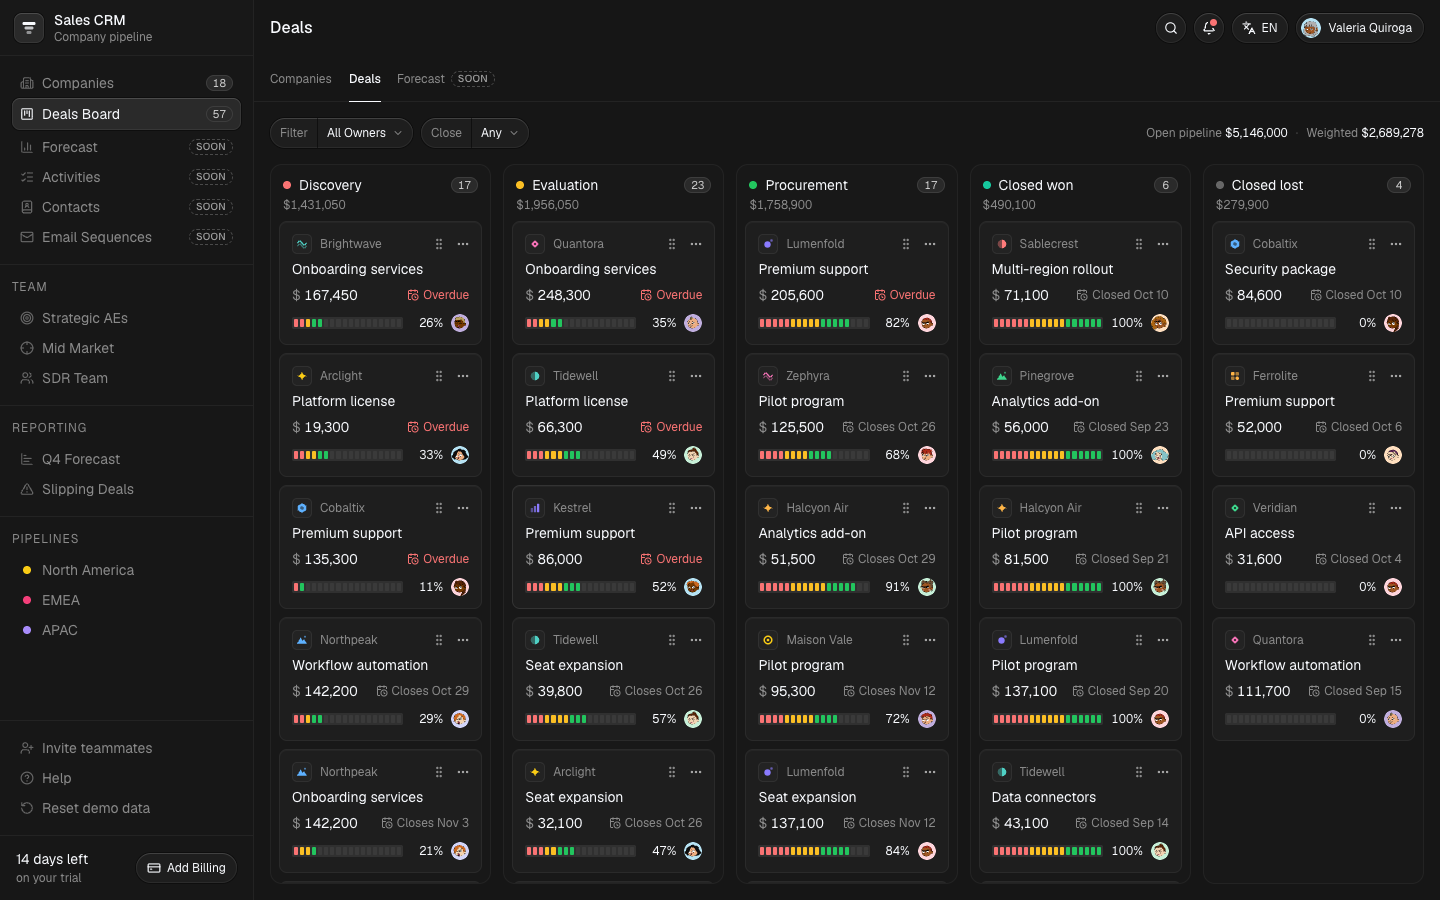
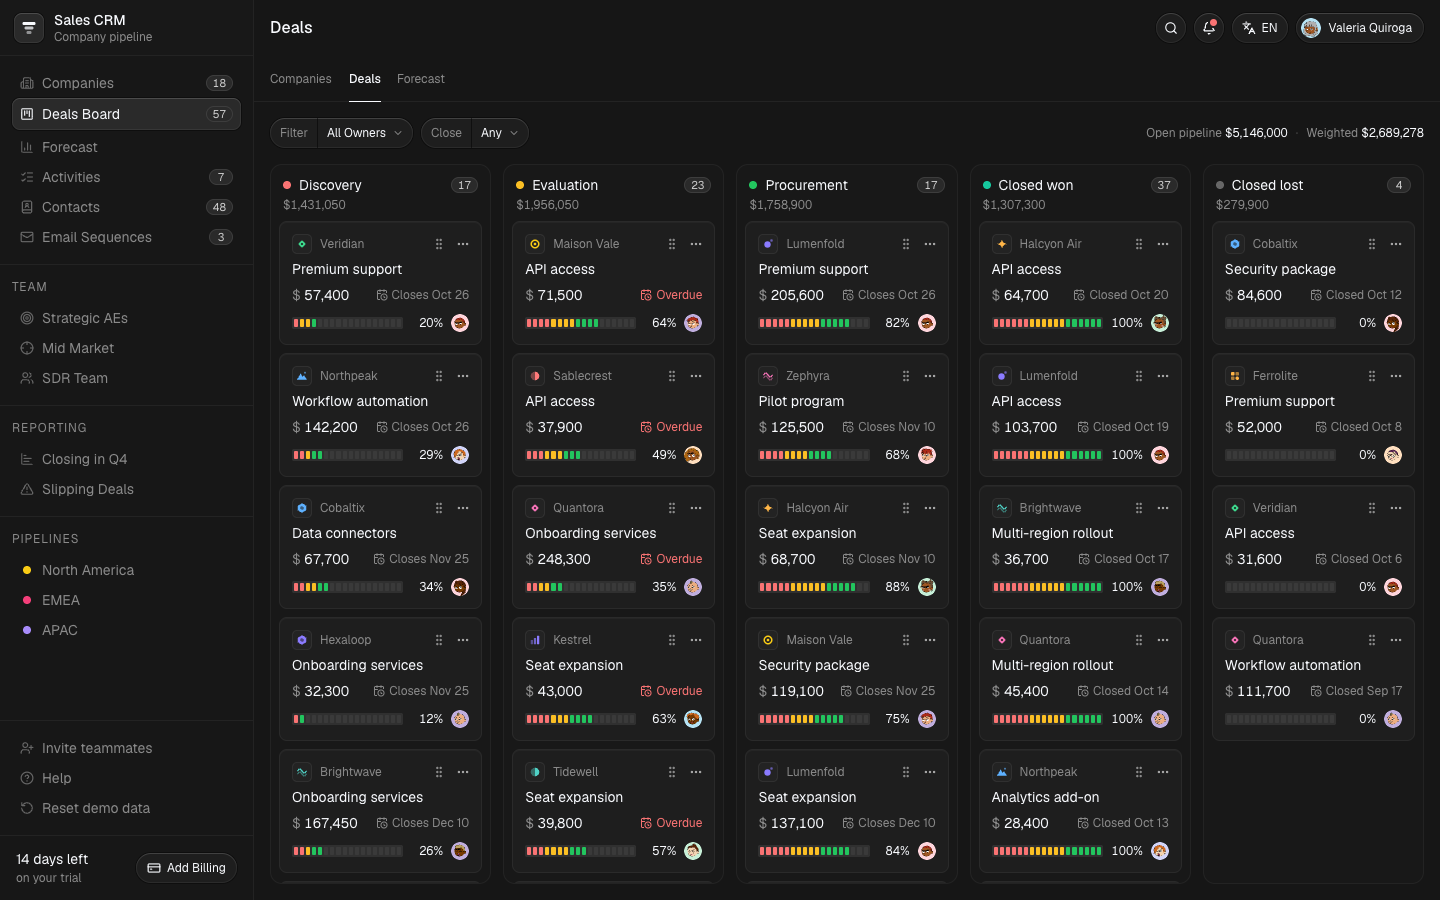
Refresh the README screenshots
The old ones predate contacts, activities and sequences, so their sidebar
still showed "Soon". Retaken from the live site, plus activities and a
sequence side by side.

diff --git a/README.es.md b/README.es.md
@@ -13,6 +13,11 @@ CRM de cuentas para equipos de ventas B2B: pipeline de empresas, contactos, acti
 ![Forecast trimestral](docs/forecast.png)
 
 <p>
+  <img src="docs/activities.png" alt="Actividades pendientes, junto a los deals sin próximo paso" width="49%" />
+  <img src="docs/sequences.png" alt="Una secuencia de email: pasos, vista previa y contactos inscriptos" width="49%" />
+</p>
+
+<p>
   <img src="docs/detail-es.png" alt="Detalle de una empresa en español" width="66%" />
   <img src="docs/mobile-es.png" alt="Tablero de deals en un celular" width="30%" />
 </p>

diff --git a/README.md b/README.md
@@ -13,6 +13,11 @@ An account-based CRM for B2B sales teams: a companies pipeline, contacts, activi
 ![Quarterly forecast](docs/forecast.png)
 
 <p>
+  <img src="docs/activities.png" alt="Activities to do, next to the deals with no next step" width="49%" />
+  <img src="docs/sequences.png" alt="An email sequence: steps, preview and enrolled contacts" width="49%" />
+</p>
+
+<p>
   <img src="docs/detail-es.png" alt="Company details in Spanish" width="66%" />
   <img src="docs/mobile-es.png" alt="Deals board on a phone" width="30%" />
 </p>
